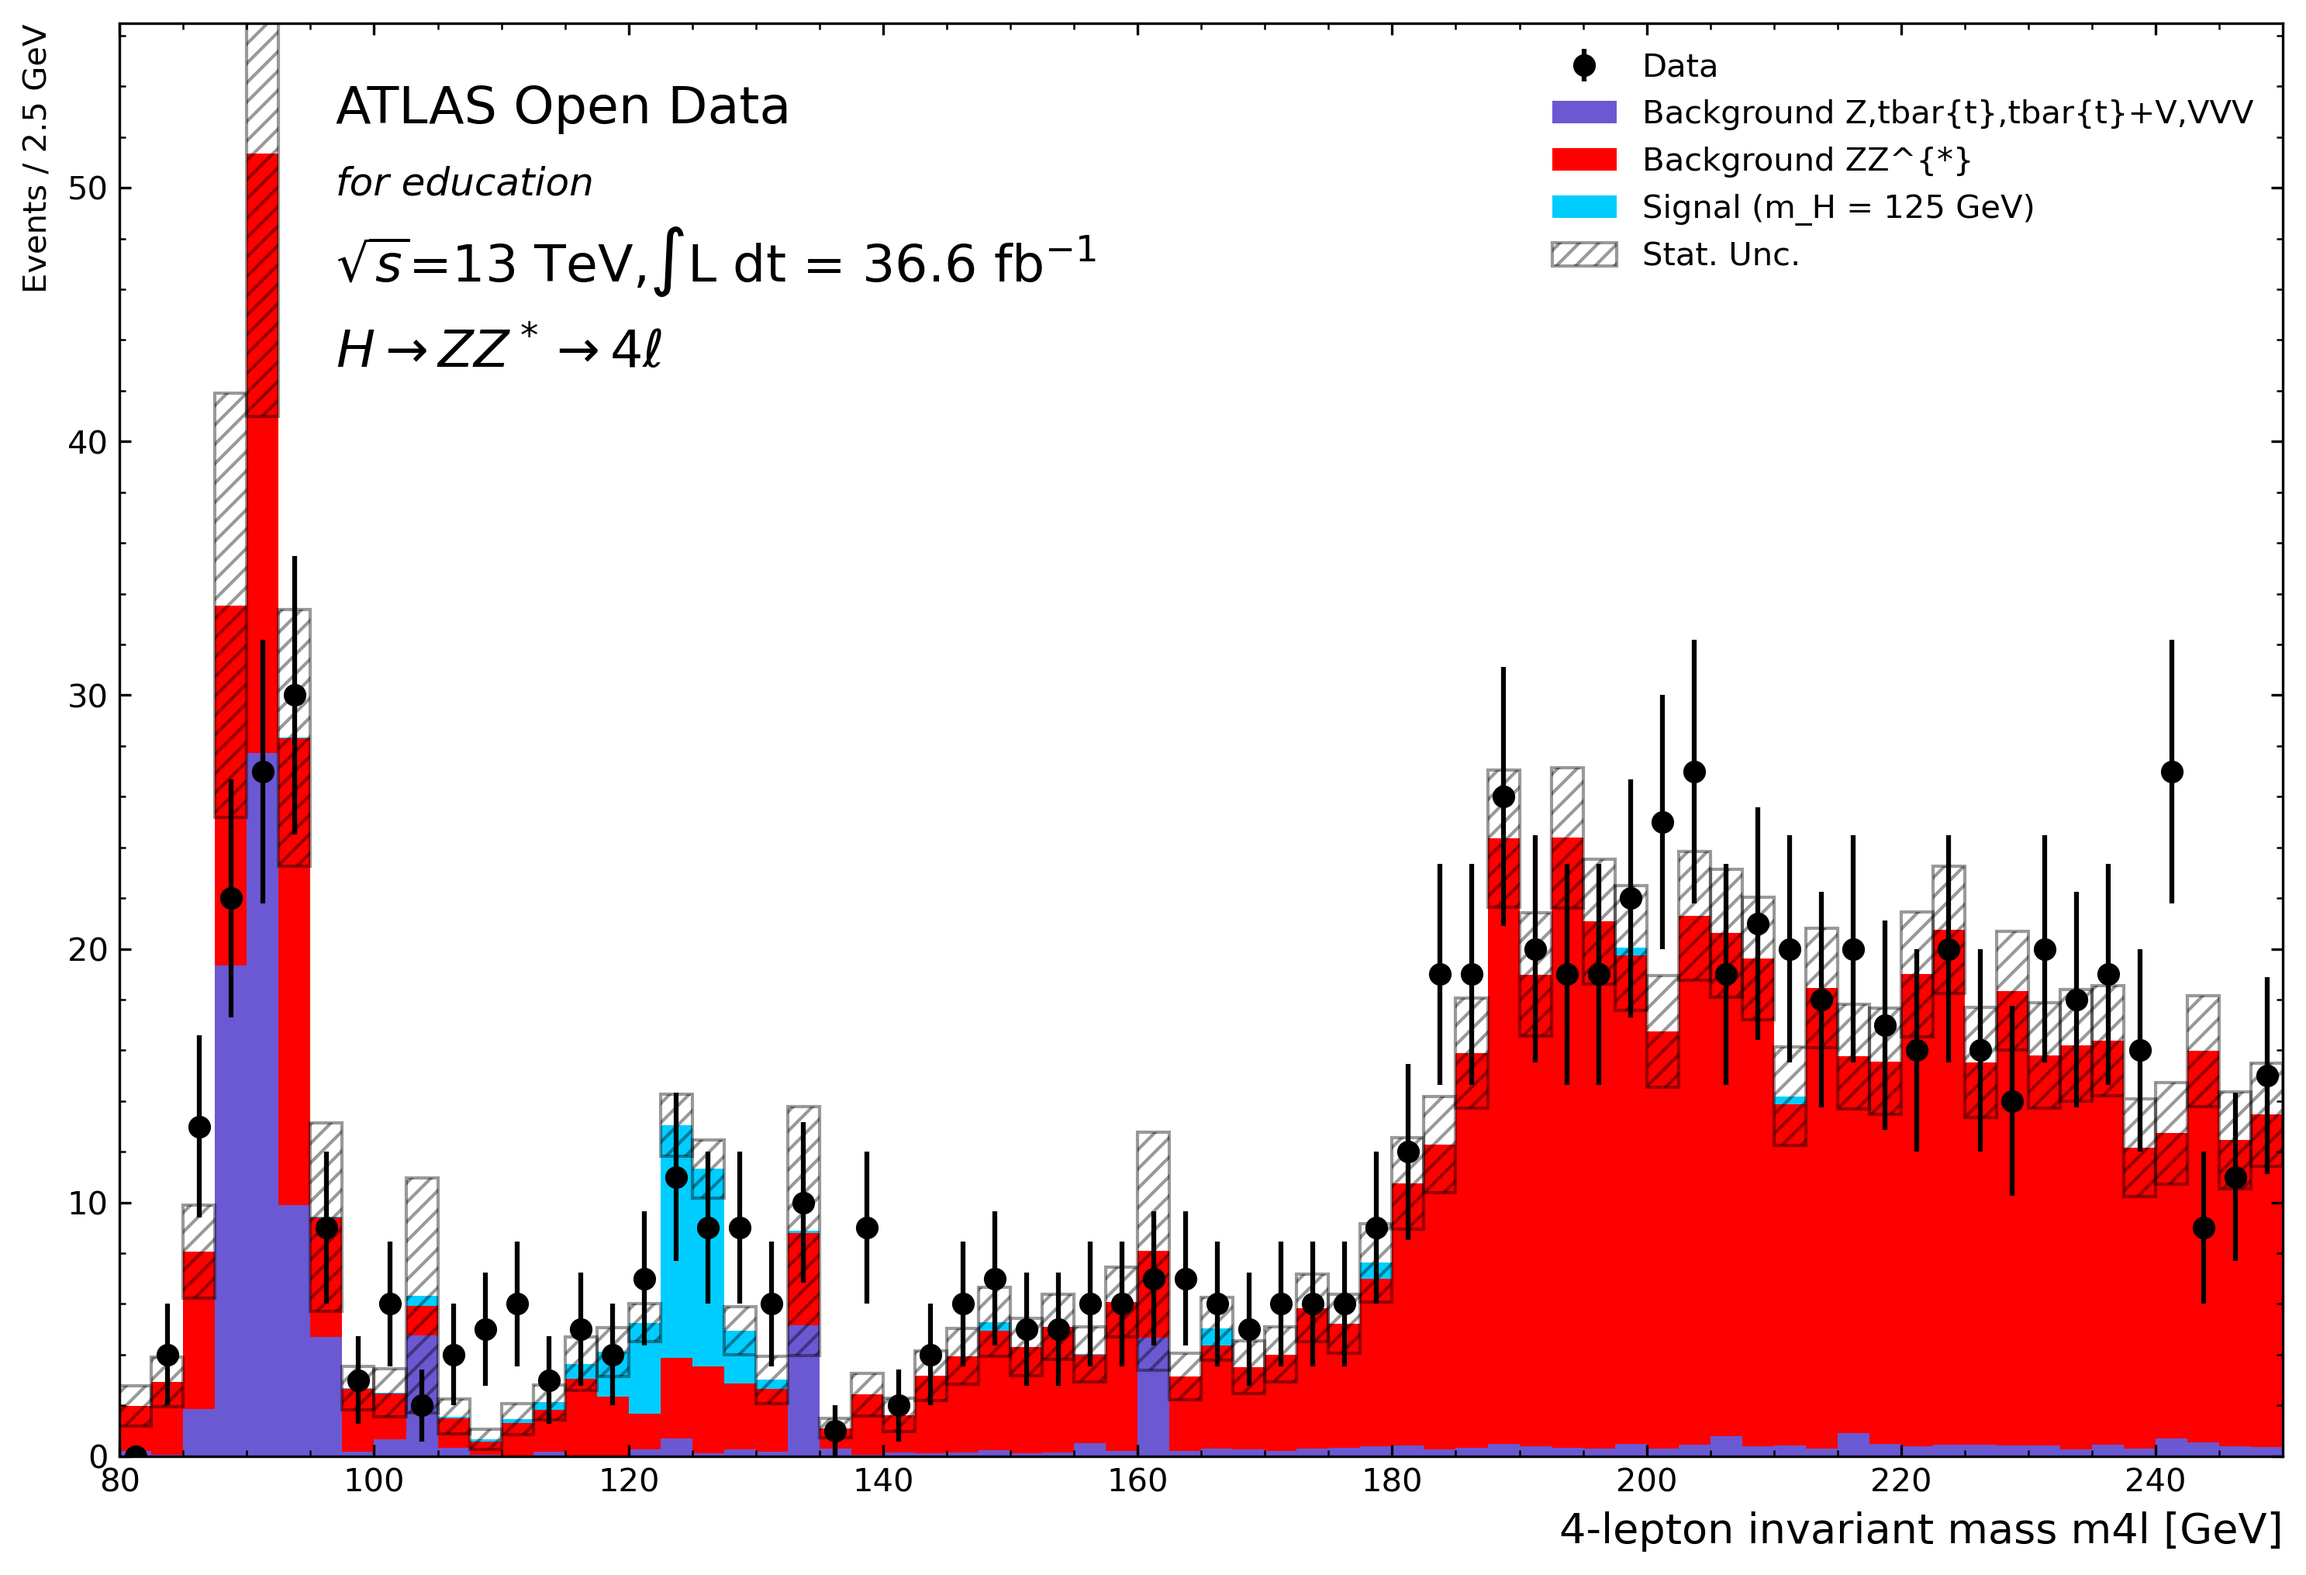
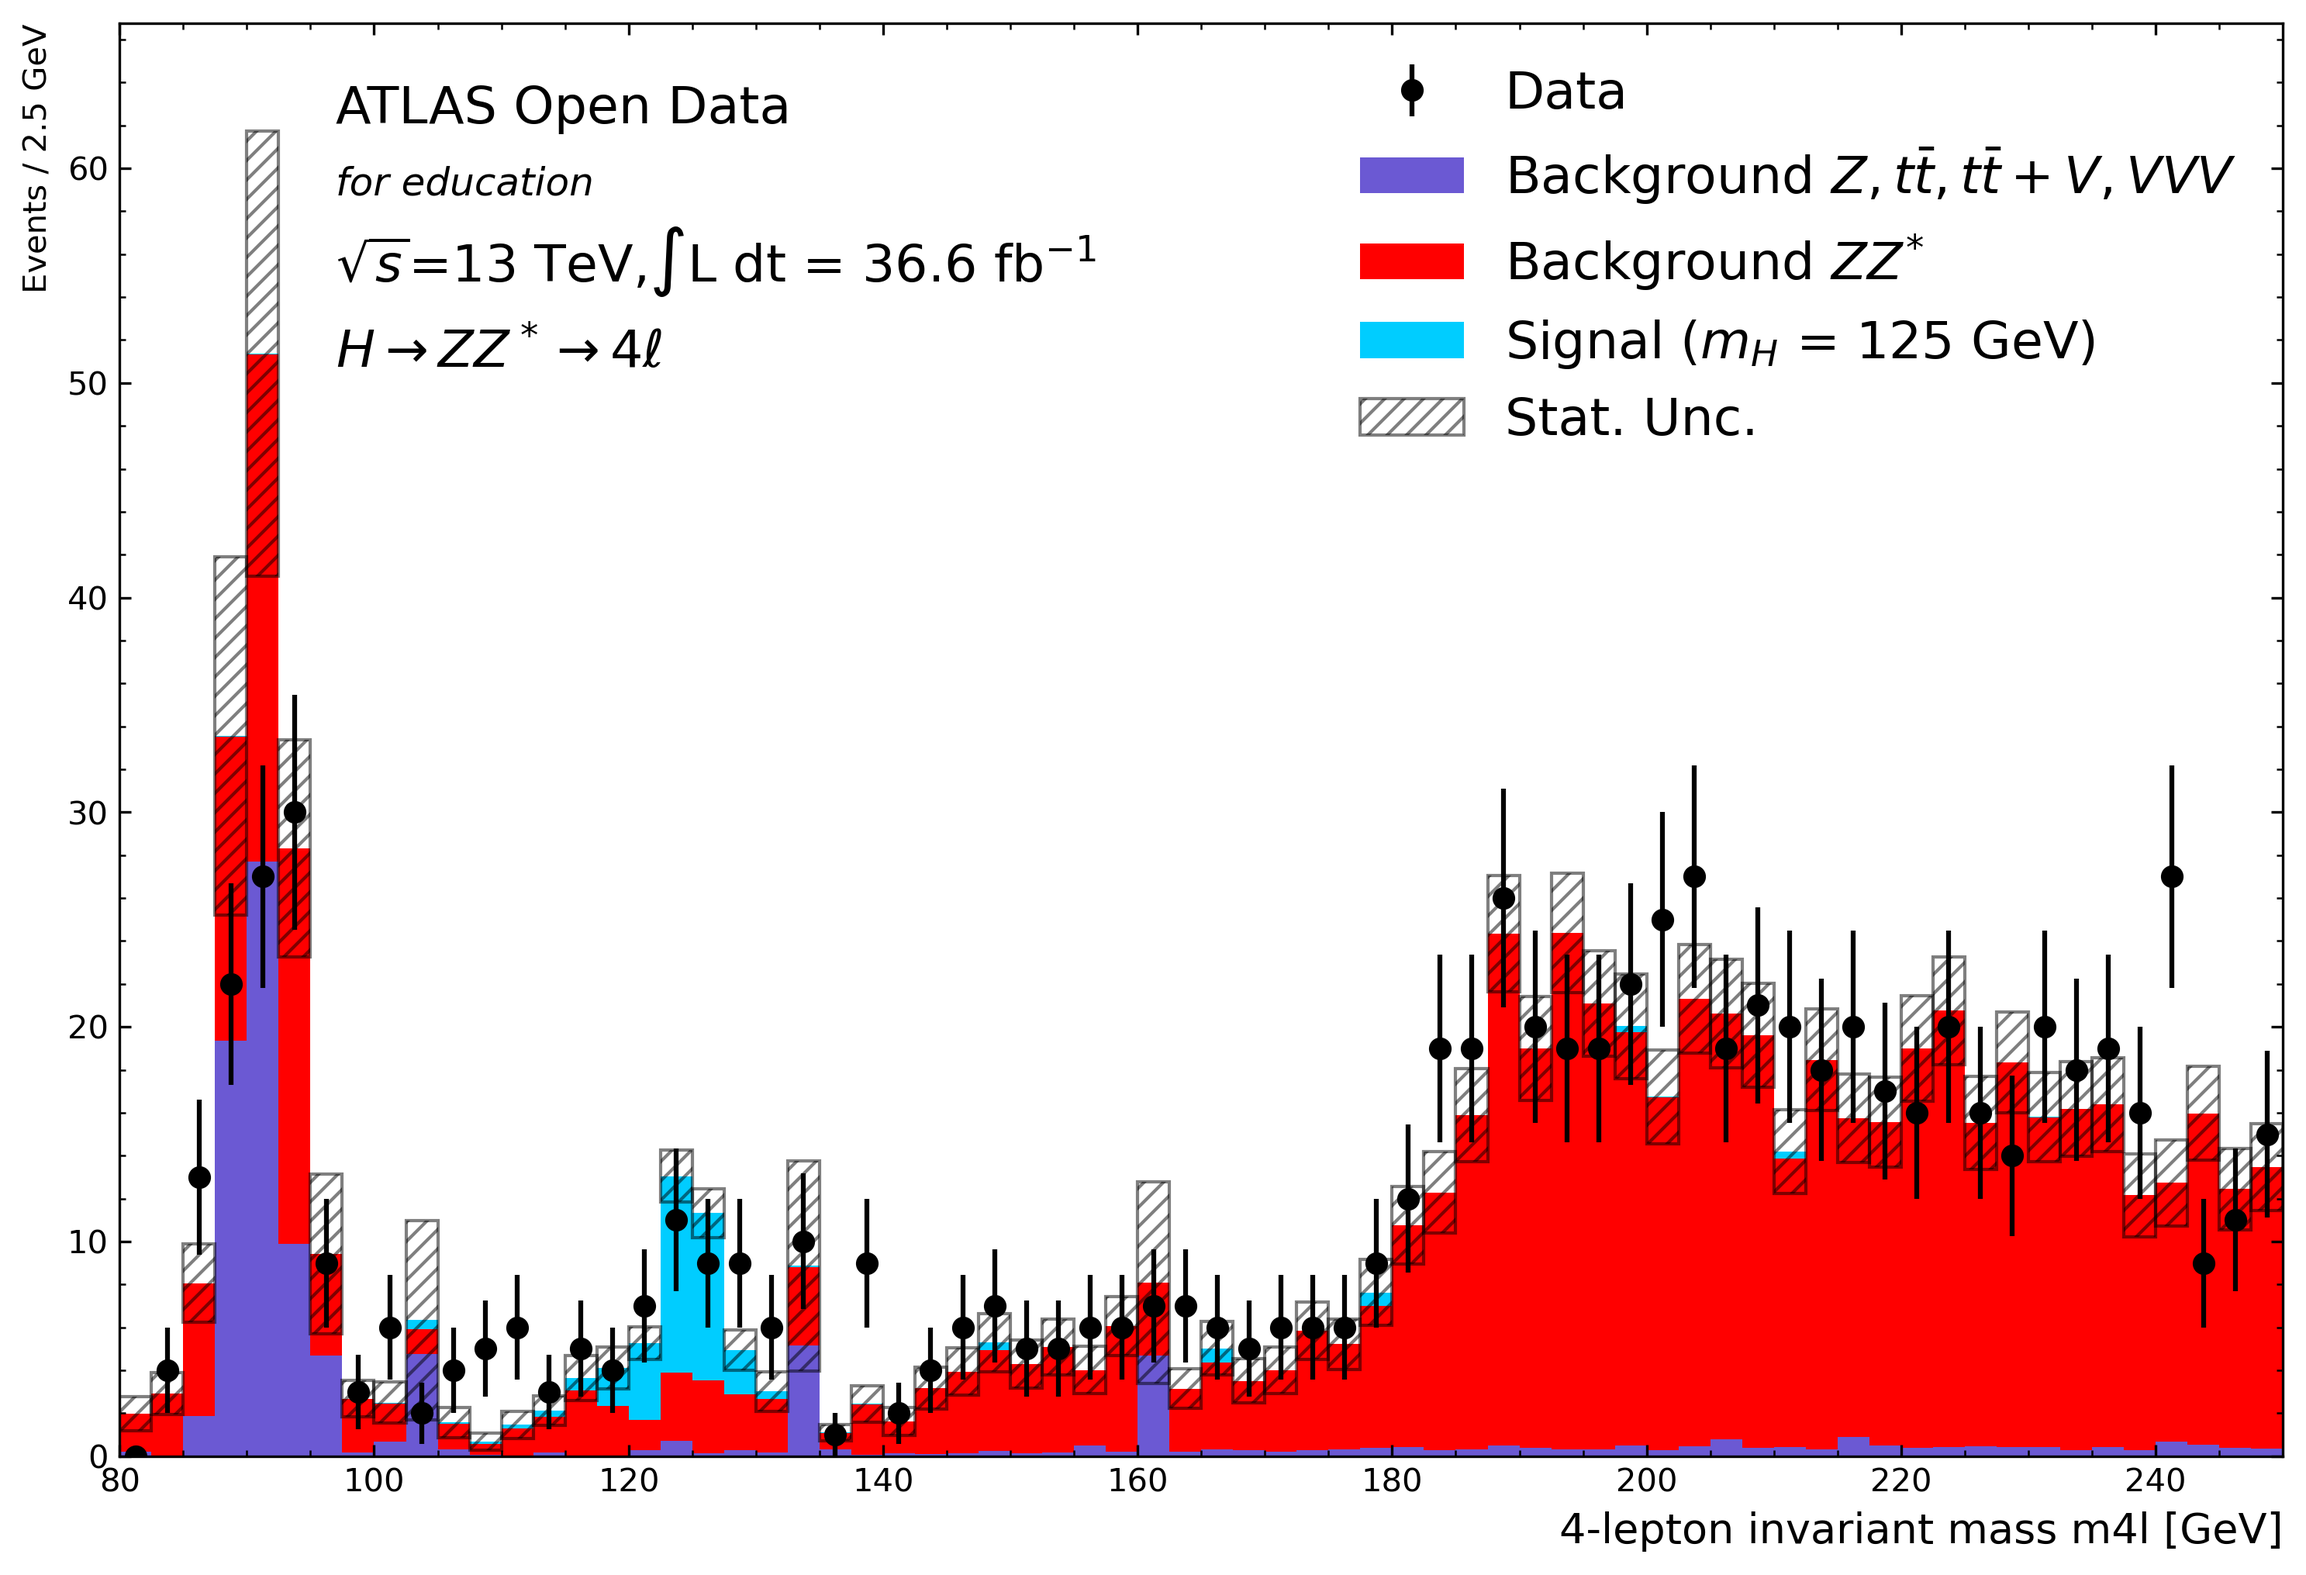
retooled run_dask

diff --git a/hzz_dask_project/run_dask_2.py b/hzz_dask_project/run_dask_2.py
@@ -21,18 +21,25 @@ from worker import process_one_file
 
 
 def parse_args():
+    '''
+    This function allows the user to parse additional args to the analysis workflow controlling:
+    - the scheduler address
+    - the total num of files processed
+    - the output directory 
+    '''
     parser = argparse.ArgumentParser(description="Run the distributed HZZ analysis with Dask.")
-    parser.add_argument("--scheduler", default=None, help="Dask scheduler address, e.g. tcp://scheduler:8786")
-    parser.add_argument("--limit-files", type=int, default=None, help="Only process the first N files per sample")
-    parser.add_argument("--output-dir", default="results", help="Directory for plots and summary outputs")
+    parser.add_argument("--scheduler", default=None) # Dask scheduler address, e.g. tcp://scheduler:8786
+    parser.add_argument("--limit-files", type=int, default=None) # process the first N files per sample
+    parser.add_argument("--output-dir", default="results") # Directory for plots and summary outputs
     return parser.parse_args()
 
 
-def build_jobs(limit_files: int | None = None) -> tuple[Dict[str, dict], List[tuple[str, str]]]:
-    atom.set_release(RELEASE)
+def build_jobs(limit_files):
 
-    samples = atom.build_dataset(DEFS, skim=SKIM, protocol="https", cache=True)
-    # review
+    atom.set_release(RELEASE) # sets which data release to use 
+    samples = atom.build_dataset(DEFS, skim=SKIM, protocol="https", cache=True) # builds data dict from DEFS
+
+
     jobs: List[tuple[str, str]] = []
     for sample_name, sample_info in samples.items():
         file_list = sample_info["list"][:limit_files] if limit_files else sample_info["list"]
@@ -42,10 +49,13 @@ def build_jobs(limit_files: int | None = None) -> tuple[Dict[str, dict], List[tu
 
 
 def merge_results(results: list[dict]):
-    #what
+    '''
+    adds all filelevel outputs into one result per sample. and retunrs merged
+    '''
     merged: dict = {}
     for result in results:
         sample = result["sample"]
+        # If a sample appears for the first time creates storage for it.
         if sample not in merged:
             merged[sample] = {
                 "hist": np.zeros_like(result["hist"]),
@@ -63,21 +73,24 @@ def merge_results(results: list[dict]):
 
 
 def plot_results(samples, merged, output_dir):
-    if "Data" not in merged:
-        raise ValueError("No Data histogram found in merged results")
-
+    '''
+    PLotting function that takes the merged dataset, and returns the hist to the output path
+    independintly configs:
+    - background 
+        - uncertainty
+    - text formatting for plot
+    - axes and ranges 
+    '''
     fig, ax = plt.subplots(figsize=(12, 8))
 
-    # -------------------
     # Data
-    # -------------------
     data_hist = merged["Data"]["hist"]
     data_err = np.sqrt(merged["Data"]["sumw2"])
     ax.errorbar(BIN_CENTRES, data_hist, yerr=data_err, fmt="ko", label="Data")
 
-    # -------------------
+
     # Backgrounds
-    # -------------------
+
     background_names = [s for s in samples if s not in ["Data", "Signal (mH = 125 GeV)"]]
 
     bg_hists = []
@@ -88,7 +101,7 @@ def plot_results(samples, merged, output_dir):
         if s in merged:
             bg_hists.append(merged[s]["hist"])
             bg_colors.append(samples[s]["color"])
-            bg_labels.append(s.replace("$", "").replace("\\", ""))  # sanitize just in case
+            bg_labels.append(s.replace("$", "$").replace("\\", "\\"))  # sanitize just in case
 
     cumulative = np.zeros_like(data_hist, dtype=float)
 
@@ -104,46 +117,30 @@ def plot_results(samples, merged, output_dir):
         )
         cumulative += hist
 
-    # -------------------
-    # Background uncertainty band
-    # -------------------
+
+    # Background uncertainty banding
+
+    #tweaked the logic of the error bounds to be simpler
     bg_sumw2 = np.zeros_like(data_hist, dtype=float)
-    for s in background_names:
-        if s in merged:
-            bg_sumw2 += merged[s]["sumw2"]
+    for i in background_names:
+        if i in merged:
+            bg_sumw2 += merged[i]["sumw2"]
 
     bg_err = np.sqrt(bg_sumw2)
 
     ax.bar(
-        BIN_CENTRES,
-        2 * bg_err,
+        BIN_CENTRES, # x
+        2 * bg_err, # heights
         bottom=cumulative - bg_err,
         width=STEP_SIZE,
         color="none",
         edgecolor="black",
         hatch="////",
-        alpha=0.4,
+        alpha=0.5, # half transparency
         label="Stat. Unc.",
     )
 
-    # -------------------
-    # Signal
-    # -------------------
-    signal_name = "Signal (mH = 125 GeV)"
-
-    if signal_name in merged:
-        ax.step(
-            BIN_EDGES[:-1],
-            merged[signal_name]["hist"],
-            where="post",
-            color=samples[signal_name]["color"],
-            linewidth=2,
-            label=signal_name,
-        )
-
-    # ------------------
     # Performative Formatting
-    # -----------------
 
     # Add text 'ATLAS Open Data' on plot
     plt.text(0.1, # x
@@ -173,13 +170,11 @@ def plot_results(samples, merged, output_dir):
             r'$H \rightarrow ZZ^* \rightarrow 4\ell$', # text
             transform=ax.transAxes,fontsize=16 ) # coordinate system used is that of main_axes
 
-    # -------------------
-    # Axes formatting
-    # -------------------
+    # Axes
     ax.set_xlim(left=XMIN, right=XMAX)
 
     ymax = max(float(np.max(data_hist)), float(np.max(cumulative)))
-    ax.set_ylim(bottom=0, top=max(1.0, ymax * 1.1))
+    ax.set_ylim(bottom=0, top=max(1.0, ymax * 1.3))
 
     ax.xaxis.set_minor_locator(AutoMinorLocator())
     ax.yaxis.set_minor_locator(AutoMinorLocator())
@@ -189,53 +184,52 @@ def plot_results(samples, merged, output_dir):
     ax.set_xlabel("4-lepton invariant mass m4l [GeV]", fontsize=13, x=1, ha="right")
     ax.set_ylabel(f"Events / {STEP_SIZE} GeV", y=1, ha="right")
 
-    ax.legend(frameon=False)
+    ax.legend(frameon=False, fontsize=16 ) # no box around the legend
 
-    # -------------------
-    # Save
-    # -------------------
-    plot_path = output_dir / "hzz_mass_plot.png"
+    # save
+    plot_path = output_dir / "hzz_mass_plot.png" # outputs plot along provided path
 
     fig.savefig(plot_path, dpi=300, bbox_inches="tight")
     plt.close(fig)
 
     return plot_path
 
-def write_summary(merged, output_dir):
-    summary = {}
-    for sample, result in merged.items():
-        summary[sample] = {
-            "n_events": int(result["n_events"]),
-            "n_selected": int(result["n_selected"]),
-            "hist_sum": float(np.sum(result["hist"])),
-        }
-    summary_path = output_dir / "summary.json"
-    summary_path.write_text(json.dumps(summary, indent=2))
-    return summary_path
-
 
 def main():
+    '''
+    main f that calls all relevant functions to 
+    '''
     args = parse_args()
     output_dir = Path(args.output_dir)
     output_dir.mkdir(parents=True, exist_ok=True)
 
     samples, jobs = build_jobs(limit_files=args.limit_files)
-    if not jobs:
-        raise RuntimeError("No jobs were built from the dataset definitions.")
+    
+    # Create a Dask client
+    if args.scheduler:
+        client = Client(args.scheduler)
+    else:
+        client = Client()
 
-    client = Client(args.scheduler) if args.scheduler else Client()
-    print(client)
+    print(client) # <Client: 'tcp://127.0.0.1:33779' processes=4 threads=12, memory=7.60 GiB>
+
+    # Submit one task per input file
     print(f"Submitting {len(jobs)} file-level tasks")
 
-    futures = [client.submit(process_one_file, file_string, sample_name) for file_string, sample_name in jobs]
+    futures = []
+    for file_string, sample_name in jobs:
+        future = client.submit(process_one_file, file_string, sample_name)
+        futures.append(future)
+
+    # collect results from workers
     results = client.gather(futures)
+
+    # Merge file-level results into sample-level histograms
     merged = merge_results(results)
 
     plot_path = plot_results(samples, merged, output_dir)
-    summary_path = write_summary(merged, output_dir)
 
     print(f"Saved plot to {plot_path}")
-    print(f"Saved summary to {summary_path}")
 
     client.close()
 
